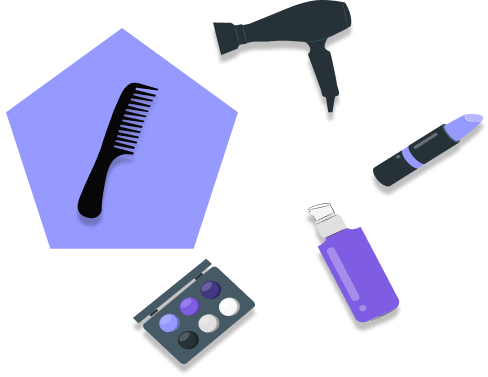
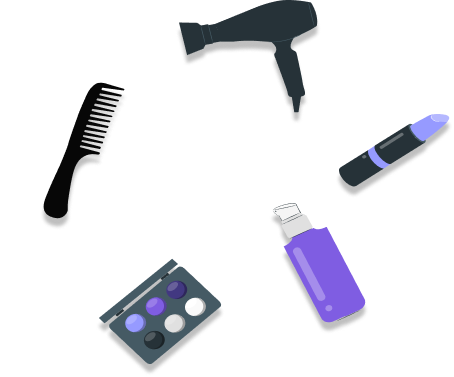
criação: import de imagens da section about e animação de rotate (falta alinhar os elementos)

diff --git a/src/sections/About/about.styled.tsx b/src/sections/About/about.styled.tsx
@@ -1,24 +1,54 @@
-import styled from 'styled-components';
+import styled, {keyframes} from 'styled-components';
 
 
 export const About = styled.section`
     width: 100%;
-    height: 100vh;
+    height: 80vh;
     display: flex;
     flex-direction: column;
     justify-content: space-around;
     align-items: center;
+
 `
 // coloquei esse height pra testar a cor
 export const AsideRounded = styled.div`
-    width: 50%;
-    height: 90px;
+    width: 60%;
+    height: 200px;
     display: flex;
+    background-color: #31335F;
+    border-radius: 0px 100px 100px 0px;
 `;
 
-export const HomeSvg = styled.img`
-    width: 120px;
-    height 50px; 
+const rotate = keyframes`
+    0% {
+        transform: rotate(0deg)
+    }
+    8.33%, 25% {
+        transform: rotate(90deg)
+    }
+    33.33%, 50% {
+        transform: rotate(180deg)
+    }
+    58.33%, 75% {
+        transform: rotate(270deg)
+    }
+    83.33%, 100% {
+        transform: rotate(360deg)
+    }
+`
 
+export const AboutSvg = styled.img`
+    width: 300px;
+    
+    &.about-svg-01{
+        animation: ${rotate} 5s infinite;
+    }
+
+    &.about-svg-02{
+        width: 160px;
+        right: 330px;
+        bottom: -430px;
+        position: absolute;
+    }
 ` 
 

diff --git a/src/sections/About/About.tsx b/src/sections/About/About.tsx
@@ -5,21 +5,31 @@ import Container from '../../components/Container/Container';
 import Title from '../../components/Title/Title';
 import Subtitle from '../../components/Subtitle/Subtitle';
 import svg01 from '../../assets/Itens Produtos.png';
+import svg02 from '../../assets/pentagono-blume.png';
 
 const About: React.FC = () => (
 	<S.About>
 		<Title> Tudo em um só lugar </Title>
-		<Container direction='column'>
+		<Container direction='row'>
 			<S.AsideRounded>
 				<div className="subtitle">
-
+					<Subtitle classes=''>Opa</Subtitle>
 				</div>
-				<S.HomeSvg
-					className="home-svg-01"
+			</S.AsideRounded>
+			<div>
+				<S.AboutSvg
+					className="about-svg-01"
 					src={svg01}
 					alt={`Imagem svg com detalhes de circulos no fundo`}
 				/>
-			</S.AsideRounded>
+				<S.AboutSvg
+					className="about-svg-02"
+					src={svg02}
+					alt={`Pentagono roxo`}
+				/>
+				
+			</div>
+			
 		</Container>
 	</S.About>
 		
